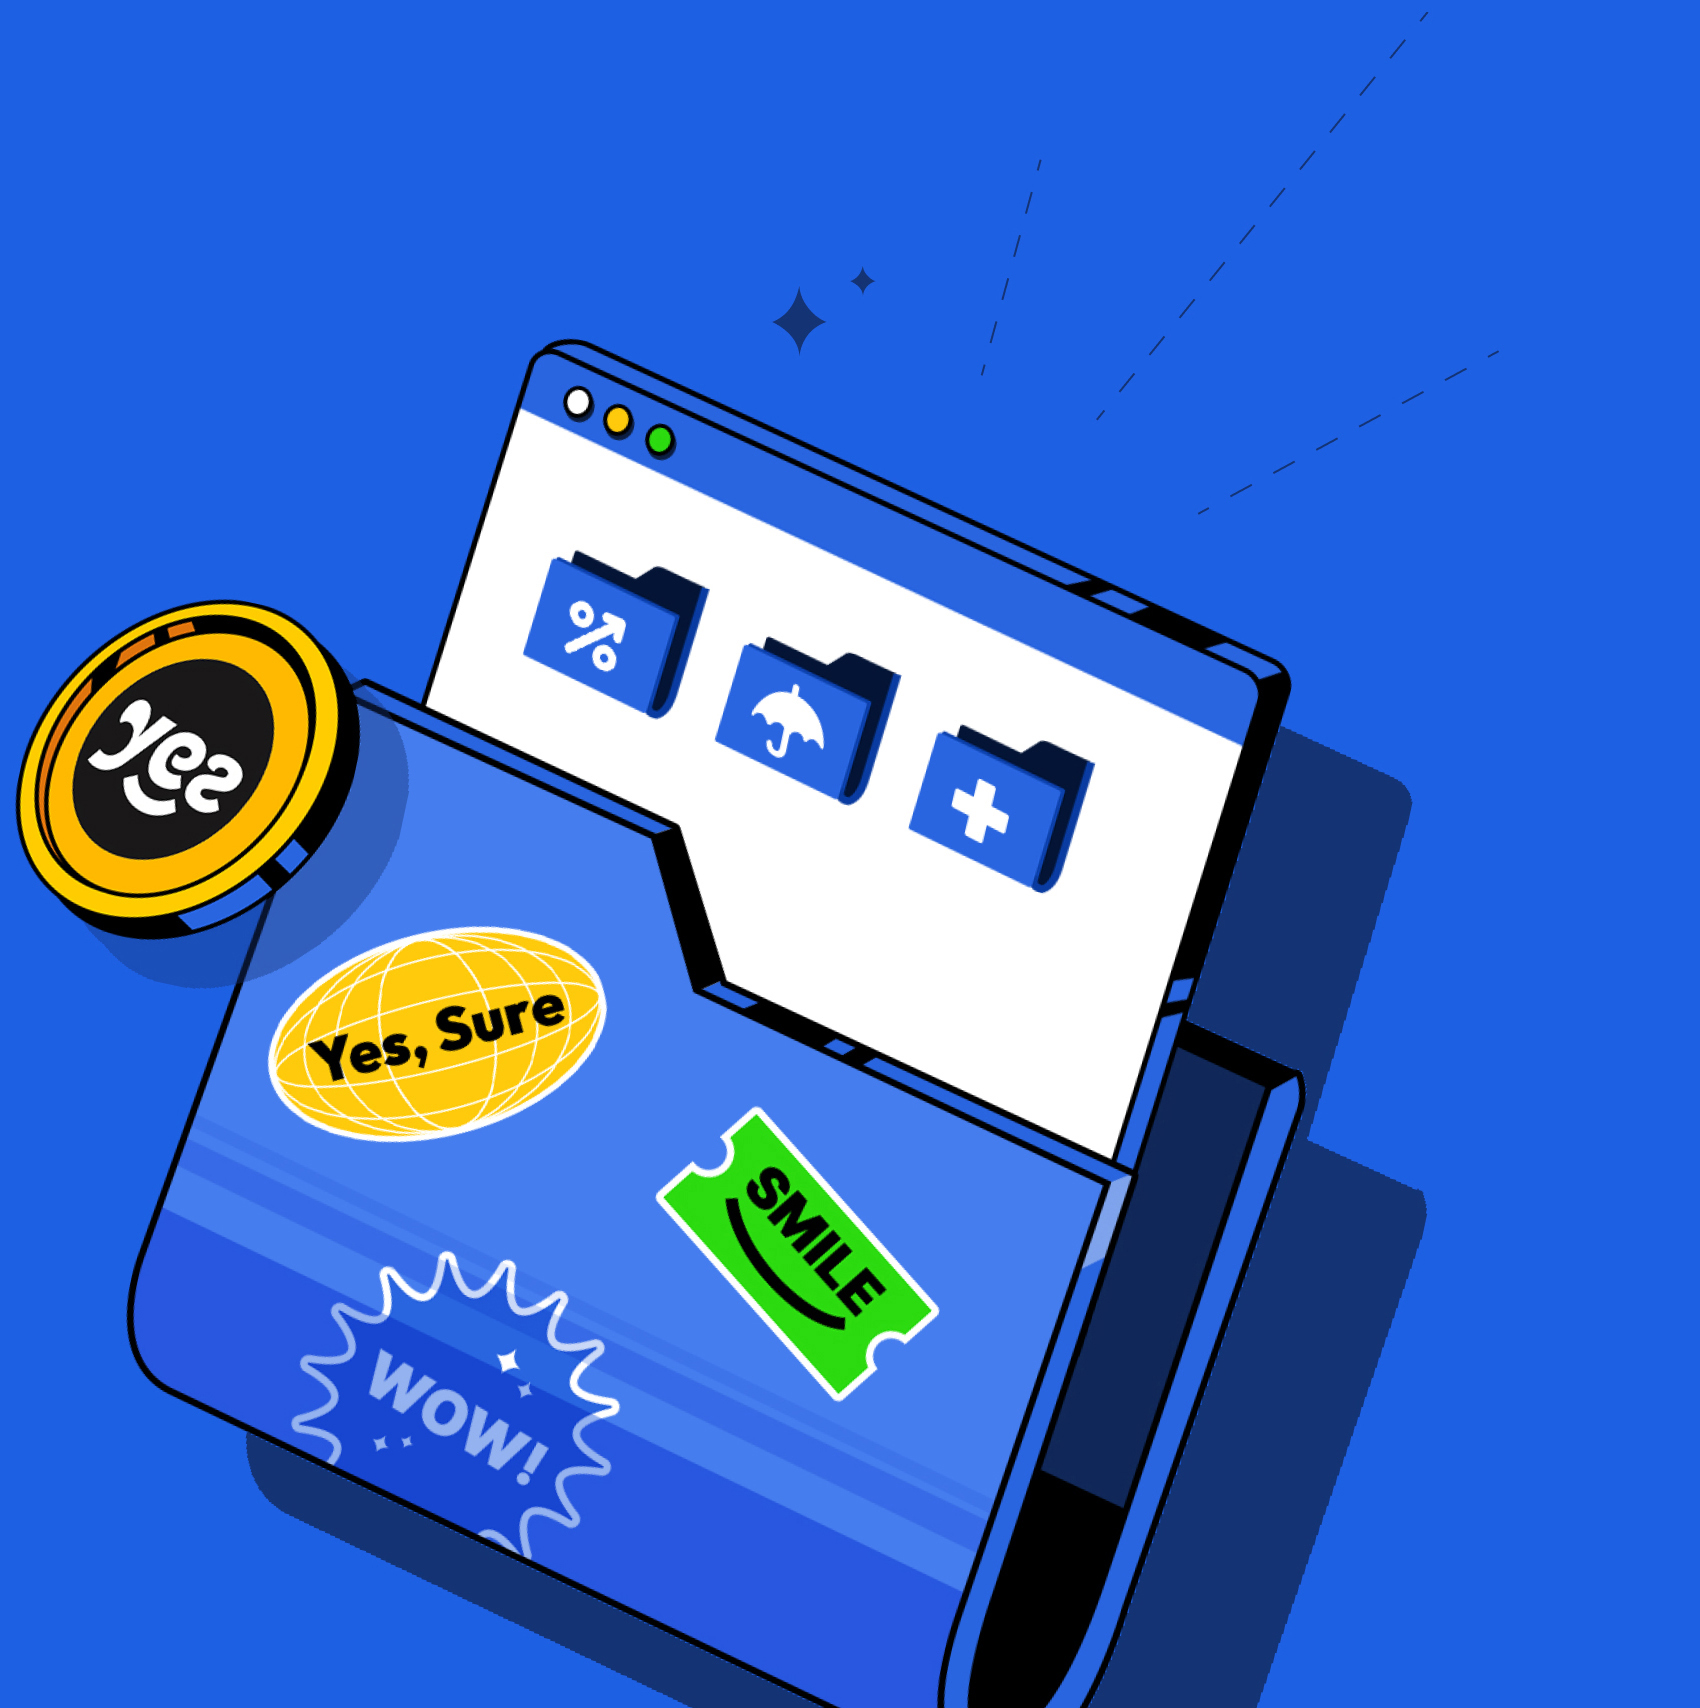
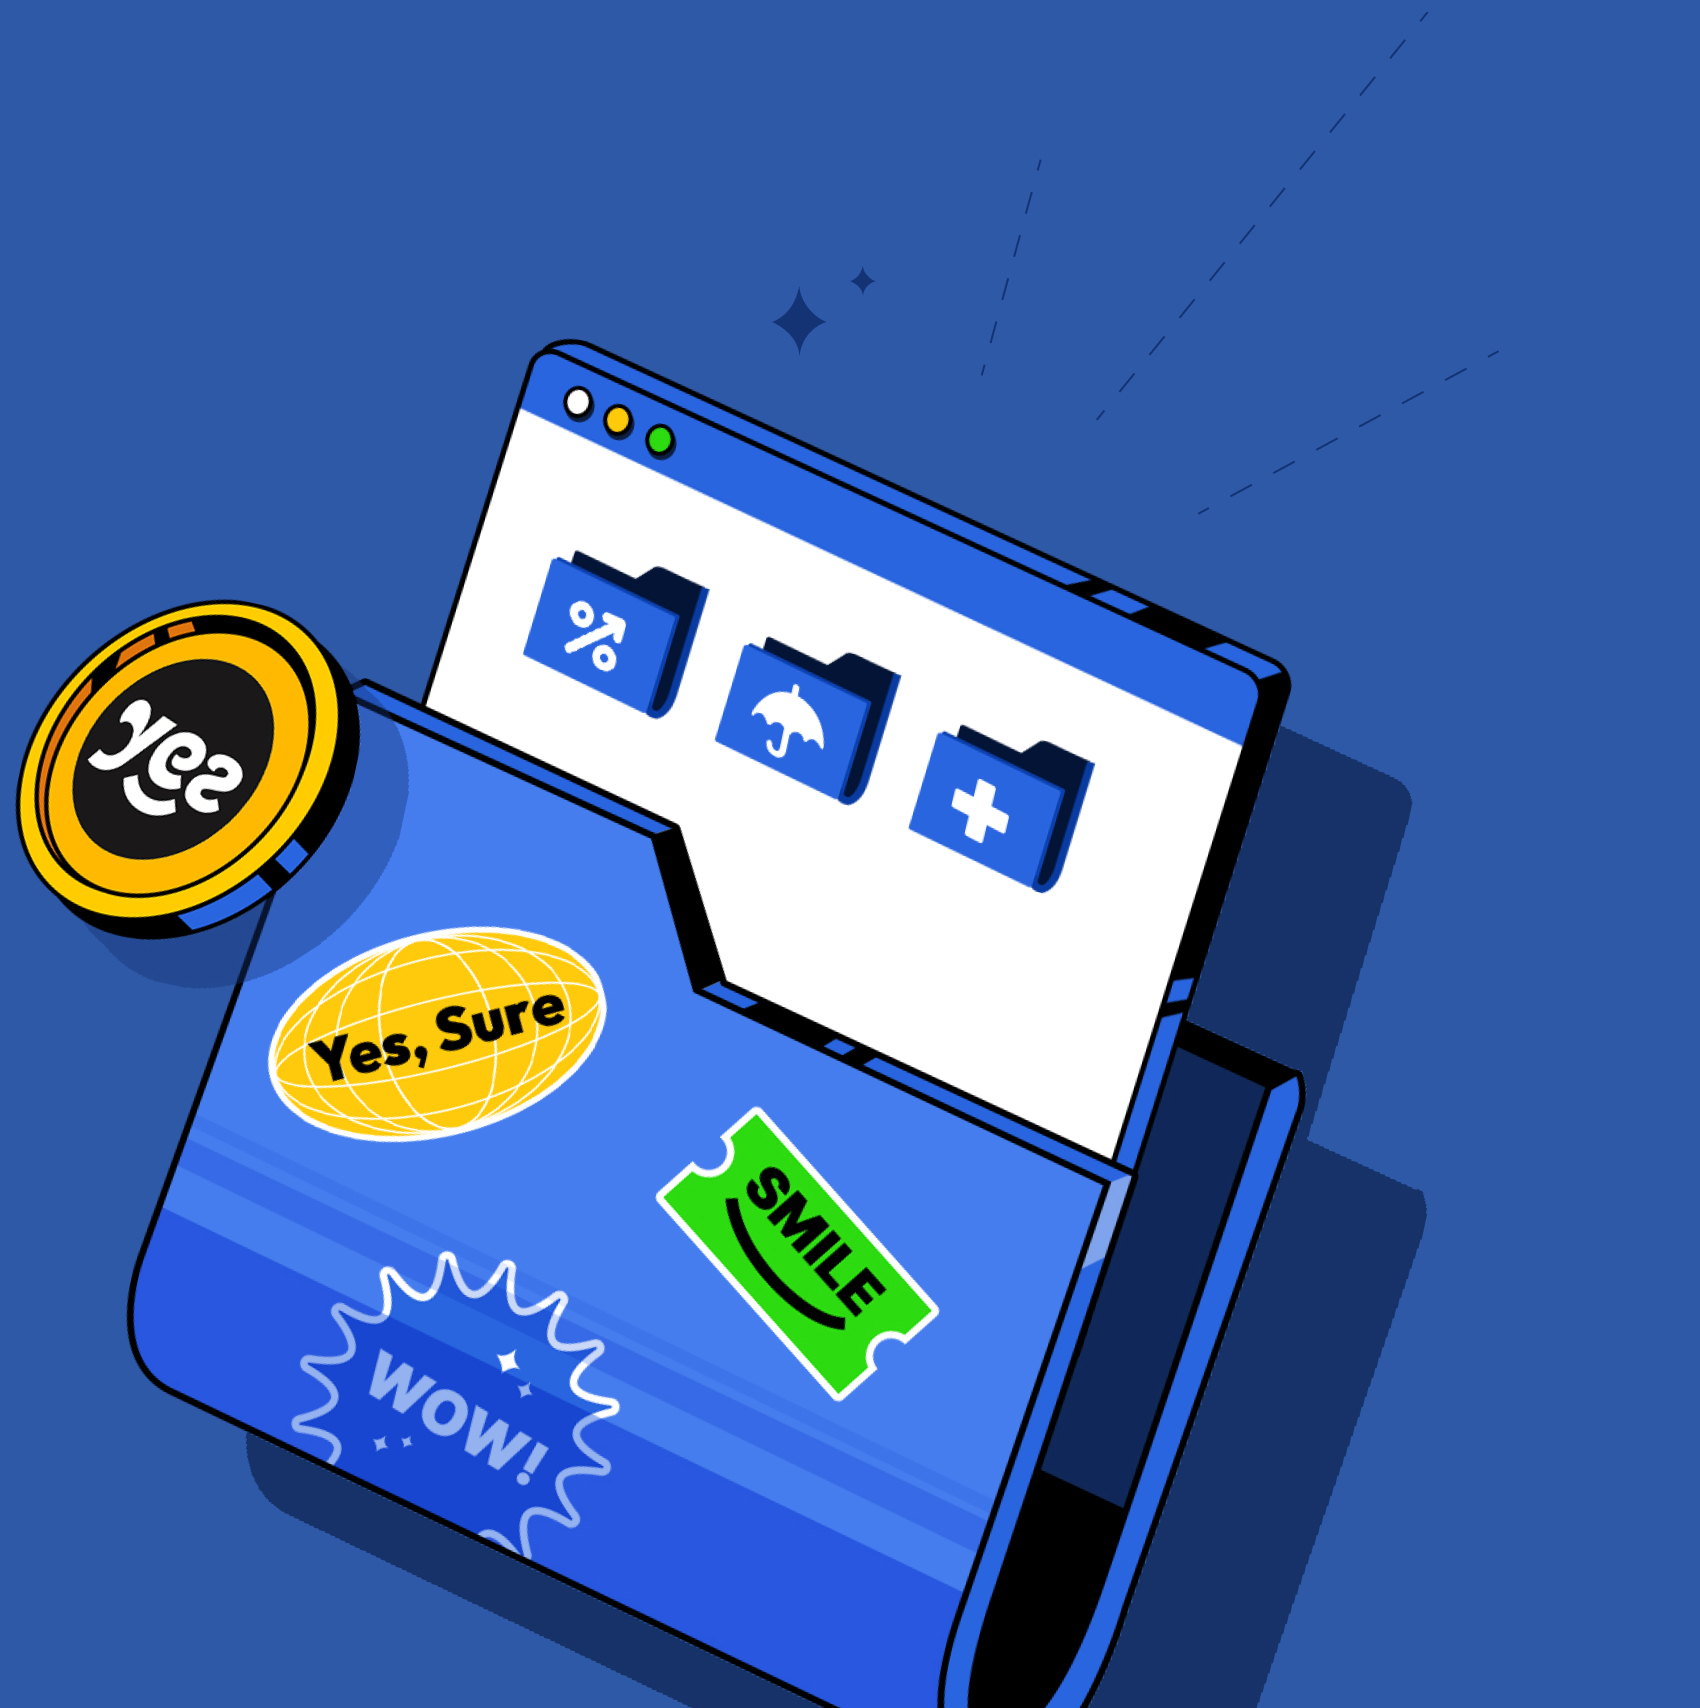
수정 진행중

diff --git a/assets/css/style.css b/assets/css/style.css
@@ -116,9 +116,9 @@ html:not(.touchmode) ::-webkit-scrollbar-track {
 .scene_contents{position:relative;width:100%;}
 .main_scene.mc_02 .bg{background-color:#fff;}
 .main_scene.mc_03,
-.main_scene.mc_04{background-color:#2965DF;}
+.main_scene.mc_04{background-color:#2E59A7;}
 .main_scene.mc_03 .bg,
-.main_scene.mc_04 .bg{background-color:#2965DF;}
+.main_scene.mc_04 .bg{background-color:#2E59A7;}
 .main_scene.mc_05 .bg{background-color:#fff;}
 
 .main_scene.mc_06,
@@ -196,7 +196,7 @@ html:not(.touchmode) ::-webkit-scrollbar-track {
 .nav_mobile_menu_list > li:first-of-type{padding-top:0;}
 .nav_mobile_menu_list > li:last-of-type{padding-bottom:0;border-bottom:0;}
 .nav_mobile_menu{font-size:32px; color:#000000; letter-spacing: -2px; font-weight:700;}
-.nav_mobile_menu.active{color:#1E60E4;}
+.nav_mobile_menu.active{color:#2E59A7;}
 .btn_nav_mobile_close{width:24px;height:24px;position:absolute;top:14px;right:14px;display:block;background:url("../images/close_line_def.svg") no-repeat 50% 50%/100% auto;}
 @media (max-width:1023px){
   .nav_top_list_zone{display:none !important;}
@@ -261,8 +261,8 @@ html:not(.touchmode) ::-webkit-scrollbar-track {
 .hor_copy_keyword{font-size:2.083vw; font-weight:500; color:#000000;letter-spacing: -1px; margin-bottom:1.25vw;}
 .hor_copy_psub{font-size:4.583vw; font-weight:700; letter-spacing: -2px; line-height:1;}
 .hor_copy_pmain{font-size:5.833vw; font-weight:700; letter-spacing: -2px; }
-.pmain_emp{ font-weight:700; font-size:6.771vw; position:relative;top:0.365vw; color:#2965DF;}
-.pmain_emp2{color:#2965DF; font-weight:700;}
+.pmain_emp{ font-weight:700; font-size:6.771vw; position:relative;top:0.365vw; color:#2E59A7;}
+.pmain_emp2{color:#2E59A7; font-weight:700;}
 .hor_copy_sub{font-size:1.042vw; color:#555555; line-height:1.5; margin-top:1.563vw;}
 .hor_mb_copy_sub{font-size:14px;color:#555; line-height:1.5;padding-top:20px; display:none;}
 
@@ -304,9 +304,9 @@ html:not(.touchmode) ::-webkit-scrollbar-track {
 }
 
 .between_obj_wrap{margin-top:2.083vw; display:flex; justify-content: space-between; align-items: center; gap:4.688vw;}
-.between_obj_count{font-size:7.292vw; color:#2965DF; font-weight:700;}
+.between_obj_count{font-size:7.292vw; color:#2E59A7; font-weight:700;}
 .between_line{ height:1px; position:relative; flex:1;}
-.between_line:after{display:block;content:'';background:#2965DF;position:absolute;top:0;left:0;width:100%;height:1px;}
+.between_line:after{display:block;content:'';background:#2E59A7;position:absolute;top:0;left:0;width:100%;height:1px;}
 .obj_unit{font-size:6.25vw; position:relative;top:-0.521vw;}
 
 .hor_dia_img{display:flex;justify-content: flex-end;}
@@ -327,7 +327,7 @@ html:not(.touchmode) ::-webkit-scrollbar-track {
 .hor_pkey_clist:last-of-type{margin-bottom:0;}
 .hor_pkey_clist > li{}
 .hor_pkey_clist > li:last-of-type{}
-.hor_pkey_box{font-size:0.729vw; color:#364AFE; display:inline-block; border-radius:0.313vw; border:1px solid #2965DF; padding:0.313vw 0.625vw;}
+.hor_pkey_box{font-size:0.729vw; color:#364AFE; display:inline-block; border-radius:0.313vw; border:1px solid #2E59A7; padding:0.313vw 0.625vw;}
 .hor_pkey_wrap{border-top:1px solid rgba(0,0,0,.2);margin-top:2.083vw; padding-top:2.083vw;}
 
 /* 
@@ -345,11 +345,11 @@ html:not(.touchmode) ::-webkit-scrollbar-track {
 .channel_copy_zone{ width:100%; display:flex; max-width:1920px;margin:0 auto;padding:0 8.33333333333333% 140px; box-sizing: border-box;text-align: left;flex-direction: column; justify-content: space-between;}
 .channel_main_copy{}
 .channel_main_copy_text{font-size:5.833vw; font-weight:700; letter-spacing: -2px;}
-.channel_main_copy_text strong{font-weight:700;font-size:7.292vw; color:#2965DF;position:relative;top:1px;}
-.channel_main_copy_text.emp{font-size:6.25vw; color:#2965DF;}
+.channel_main_copy_text strong{font-weight:700;font-size:7.292vw; color:#2E59A7;position:relative;top:1px;}
+.channel_main_copy_text.emp{font-size:6.25vw; color:#2E59A7;}
 .channel_sub_copy{font-size:1.042vw; color:#333333; line-height:1.5;padding-top:2.083vw;margin-top:6.771vw; border-top:1px solid rgba(0,0,0,.12); word-break: keep-all;}
 .channel_copy2_zone{ width:100%; display:flex; max-width:1920px;margin:0 auto;padding:0 8.33333333333333% 140px; box-sizing: border-box;text-align: left; align-items: flex-start; gap:7.813vw;}
-.channel_copy2_main{font-size:5.833vw; color:#2965DF; font-weight:700; }
+.channel_copy2_main{font-size:5.833vw; color:#2E59A7; font-weight:700; }
 .channel_copy2_sub{margin-top:2.708vw; font-size:1.042vw; color:#000000;line-height:1.5;}
 .channel_img_wrap{width:31.25vw; flex:0 0 31.25vw;}
 .channel_spec_wrap{flex:1; min-width:0; padding-top:5.208vw;}
@@ -372,7 +372,7 @@ html:not(.touchmode) ::-webkit-scrollbar-track {
   .hor_copy_psub{font-size:88px; line-height:1;}
   .hor_copy_pmain{font-size:112px; }
   .pmain_emp{ font-weight:700; font-size:130px; top:7px; }
-  .pmain_emp2{color:#2965DF; font-weight:700;}
+  .pmain_emp2{color:#2E59A7; font-weight:700;}
   .hor_copy_sub{font-size:20px; margin-top:30px;}
 
   .between_obj_wrap{margin-top:40px; gap:90px;}
@@ -534,7 +534,7 @@ html:not(.touchmode) ::-webkit-scrollbar-track {
   .hor_pkey_title{font-size:18px;}
   .hor_pkey_contents{margin-top:10px;}
   .hor_pkey_clist{margin-bottom:5px;display:flex;flex-wrap:wrap;gap:5px;}
-  .hor_pkey_box{font-size:12px;border-radius:2px; border:1px solid #2965DF; padding:4px 8px;}
+  .hor_pkey_box{font-size:12px;border-radius:2px; border:1px solid #2E59A7; padding:4px 8px;}
   .hor_pkey_wrap{margin-top:20px; padding-top:15px;}
 
   .main_scene.mc_06{align-items: flex-start; justify-content: flex-start;}
@@ -554,7 +554,7 @@ html:not(.touchmode) ::-webkit-scrollbar-track {
   .hor_pkey_title{font-size:18px;}
   .hor_pkey_contents{margin-top:10px;}
   .hor_pkey_clist{margin-bottom:5px;display:flex;flex-wrap:wrap;gap:5px;}
-  .hor_pkey_box{font-size:12px;border-radius:2px; border:1px solid #2965DF; padding:4px 8px;}
+  .hor_pkey_box{font-size:12px;border-radius:2px; border:1px solid #2E59A7; padding:4px 8px;}
   .hor_pkey_wrap{margin-top:20px; padding-top:15px;}
  }
 /* motion before */
@@ -659,7 +659,7 @@ html:not(.touchmode) ::-webkit-scrollbar-track {
 input.sf_input{height:67px;box-sizing: border-box; line-height:1; border:0; width:100%; font-size:16px; letter-spacing: -1px; outline:0;}
 textarea.sf_ta{width:100%; height:96px; font-size:16px; letter-spacing: -1px; border:0; resize:none; outline: 0;}
 .btn_form_submit_wrap{margin-top:32px;}
-.btn_form_submit{width:100%;background:#2965DF; border-radius: 12px; color:#fff;display:flex;min-height:88px; font-size:28px;cursor: pointer;display:flex; align-items: center; justify-content: center;}
+.btn_form_submit{width:100%;background:#2E59A7; border-radius: 12px; color:#fff;display:flex;min-height:88px; font-size:28px;cursor: pointer;display:flex; align-items: center; justify-content: center;}
 @media (max-width:1900px){
   .scene_form_title_text{font-size:50px;}
   .scene_form_container{padding:0 100px; gap:100px;}
@@ -739,8 +739,8 @@ textarea.sf_ta{width:100%; height:96px; font-size:16px; letter-spacing: -1px; bo
 
 
 /* gate */
-.main_scene.mc_01 .bg{background:#1E60E4 url("../images/gate_pc_bg.png") no-repeat 50% 100%/100% auto;}
-.main_scene.mc_01{background:#1E60E4; /* min-height:calc(100vh - 120px); align-items: flex-end; */ }
+.main_scene.mc_01 .bg{background:#2E59A7 url("../images/gate_pc_bg.png") no-repeat 50% 100%/100% auto;}
+.main_scene.mc_01{background:#2E59A7; /* min-height:calc(100vh - 120px); align-items: flex-end; */ }
 .main_scene.mc_01 .bg{}
 .intro_gate_wrap{width:100%; max-width:1920px; margin:0 auto; box-sizing: border-box; padding:0 0 0 14.583vw}
 .intro_main_copy_group{}
@@ -768,7 +768,7 @@ img.intro_obj.pc_img{max-width:14.896vw;}
 }
 @media (max-width:1023px){
   .main_scene.mc_01{align-items: flex-start; justify-content: flex-start;}
-  .main_scene.mc_01 .bg{background:#1E60E4 url("../images/gate_mb_bg.jpg") no-repeat 50% 100%/360px auto;}
+  .main_scene.mc_01 .bg{background:#2E59A7 url("../images/gate_mb_bg.jpg") no-repeat 50% 100%/360px auto;}
   .intro_mb_logo{display:block;margin-bottom:8px;}
   img.intro_obj.mb_img{max-width:90px;}
   .intro_gate_wrap{padding:146px 40px 0;}
@@ -840,8 +840,8 @@ img.intro_obj.pc_img{max-width:14.896vw;}
 .scene_form_title_sub{font-size:16px; color:#555555; margin-top:10px; line-height:1.5;}
 .scene_obj_title_text{font-size:56px; color:#000; font-weight:700; line-height:1;}
 .scene_list_contents_row{flex:1;min-width:0;}
-.scene_toggle_list_wrap{  max-height:calc(100vh - 455px);  overflow: hidden; overflow-y:auto; position:relative;}
-.scene_toggle_list_wrap::-webkit-scrollbar{display:none;}
+.scene_toggle_list_wrap{  max-height:calc(100vh - 340px);  overflow: hidden; overflow-y:auto; position:relative;}
+/* .scene_toggle_list_wrap::-webkit-scrollbar{display:none;} */
 
 .scroll_mode .scene_toggle_list_wrap{overflow:visible;}
 
@@ -860,7 +860,7 @@ img.intro_obj.pc_img{max-width:14.896vw;}
 }
   
 
-.swiper.faqscroll{max-height:calc(100vh - 455px); position:relative;overflow:hidden;}
+.swiper.faqscroll{max-height:calc(100vh - 340px); position:relative;overflow:hidden;}
 .swiper.faqscroll .swiper-wrapper{ position:relative;overflow:hidden;}
 .swiper.faqscroll .swiper-slide{}
 
@@ -910,9 +910,11 @@ img.intro_obj.pc_img{max-width:14.896vw;}
   .scene_toggle_bar_text{ font-size:12px; }
   .scene_toggle_contents_inner{font-size:12px; letter-spacing: 0; padding:16px 48px 16px 16px;}
 
+  .scene_toggle_list_wrap{max-height:400px;}
+}
+@media (max-width:1023px) and (max-height:767px){
   .scene_toggle_list_wrap{max-height:330px;}
 }
-
 
 
 /* motion before */
@@ -1035,7 +1037,7 @@ img.intro_obj.pc_img{max-width:14.896vw;}
 .service_cols_img_wrap img{max-width:12.5vw;width:100%;}
 
 .swiper-slide.swiper-slide-active > .service_swiper_line{height:36.51vw;}
-.swiper-slide.swiper-slide-active > .service_swiper_item{ background:#2965DF;}
+.swiper-slide.swiper-slide-active > .service_swiper_item{ background:#2E59A7;}
 .swiper-slide.swiper-slide-active > .service_swiper_item .service_cols_main_copy{color:#fff;}
 .swiper-slide.swiper-slide-active > .service_swiper_item .service_cols_sub_copy{color:#fff;}
 .service_swiper_wrap.swiper .swiper-slide.swiper-slide-active .service_cols_img_wrap{opacity:1;}

diff --git a/main.html b/main.html
@@ -488,31 +488,47 @@
 											<ul class="scene_toggle_list">
 												<li class="active">
 													<a href="#" class="scene_toggle_bar">
-														<div class="scene_toggle_bar_text">소액보험플랫폼은 어떤 사업 이점이 있나요?</div>
+														<div class="scene_toggle_bar_text">왜 Yes, Sure 플랫폼을 사용해야하나요?</div>
 													</a>
 													<div class="scene_toggle_contents">
 														<div class="scene_toggle_contents_inner">
-															국내 소액단기 보험은 제도가 시행되었으나 인가기준, 규제, 비용 등의 이슈로 아직까지 설립신청 및 승인된 회사가 없으며, 설립을 검토하고 있는 회사에는 자본금 외 시스템 구축비용이 큰 부담으로 작용하고 있습니다. 소액보험플랫폼 Yes,sure는 단기간 내 저렴한 운영 비용으로 보험사업을 영위할 수 있는 최적의 플랫폼입니다.
+															Yes, Sure는 보험사를 대신하여 보험서비스를 제공 합니다.<br>
+															초기 구축 비용 없이, 서비스 사용 계약체결에 의한 기간 동안 플랫폼을 사용 할 수 있습니다. 
+															시스템 운영은 Yes, Sure 운영센터에서 수행하며, 보험사의 운영인력이  불필요합니다.
 														</div>
 													</div>
 												</li>
 												<li>
 													<a href="#" class="scene_toggle_bar">
-														<div class="scene_toggle_bar_text">SaaS를 사용하게 될 경우, 어떤 이익을 얻을 수 있나요?</div>
+														<div class="scene_toggle_bar_text">Yes, Sure 플랫폼의 서비스 제공범위는 어떻게 되나요?</div>
 													</a>
 													<div class="scene_toggle_contents">
 														<div class="scene_toggle_contents_inner">
-															내용 수급중
+															Yes, Sure는 고객에게 시대 요구에 민첩하게 대응할 수 있는 기반과 편리하고 쉬운 보험관리 서비스를 제공합니다.<br>
+															Yes, Sure 플랫폼의 서비스 제공 범위는 보험 상품 등록 부터 보험가입, 계약 유지관리, 보험금 신청 등의 모든 보험 업무입니다.
 														</div>
 													</div>
 												</li>
 												<li>
 													<a href="#" class="scene_toggle_bar">
-														<div class="scene_toggle_bar_text">SaaS를 사용하고 싶어요. 절차가 어떻게 되나요?</div>
+														<div class="scene_toggle_bar_text">Yes, Sure 플랫폼의 비용은 어떻게 산정되나요?</div>
 													</a>
 													<div class="scene_toggle_contents">
 														<div class="scene_toggle_contents_inner">
-															내용 수급중
+															Yes, Sure 플랫폼의 비용은 시스템 사용량에 따라 산정됩니다.<br>
+															웹사이트 하단의 Contact Us를 통해 문의주시거나 대표번호 02-2136-6519로 전화 주시면 구체적인 비용 산정 정책을 안내 받으실 수 있습니다. 
+														</div>
+													</div>
+												</li>
+												<li>
+													<a href="#" class="scene_toggle_bar">
+														<div class="scene_toggle_bar_text">Yes, Sure의 도입 프로세스와 기간은 어떻게 되나요?</div>
+													</a>
+													<div class="scene_toggle_contents">
+														<div class="scene_toggle_contents_inner">
+															Yes, Sure 플랫폼은 계약 체결 이후, 보험 약관과 상품설명서를 기반으로 업무분석을 진행 한 뒤 플랫폼 설치를 시작합니다.<br>
+															이 후, 프로세스를 반영하고 대내외 시스템을 연계하며 보안성 심의 대응 프로세스를 거치면 시스템 운영이 가능합니다.<br>
+															이에 따라 총 12~14 주가 소요됩니다. 다만, 제공 되는 화면을 사용하지 않고 보험사 고유의 화면을 신규로 요청하거나, 내부 연계해야하는 시스템의 종류 따라 도입프로세스 절차와 기간은 변동될 수 있습니다.
 														</div>
 													</div>
 												</li>
@@ -607,7 +623,7 @@
 							<div class="footer_inner">
 								<div class="footer_main_cols">
 									<div class="footer_copy_row_01">
-										<p class="footer_emp_title">고객센터 1234-5678</p>
+										<p class="footer_emp_title">고객센터 02-2136-6519</p>
 										<p class="footer_sub">(평일 오전 9시 ~ 오후 6시)</p>
 									</div>
 									<div class="footer_copy_row_02">
